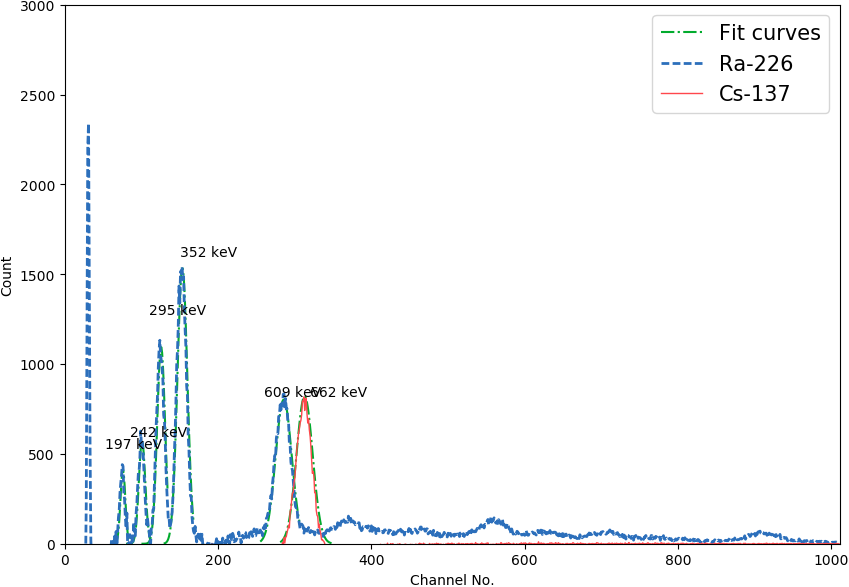
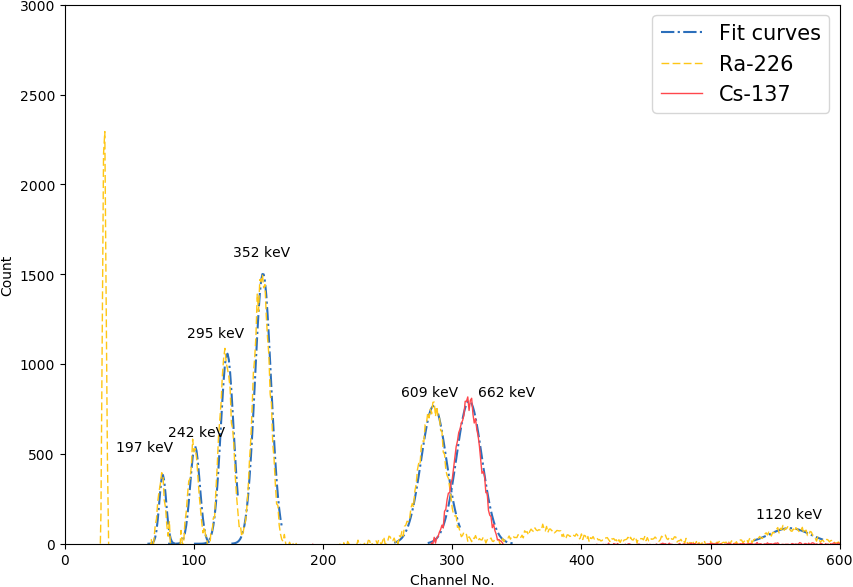
Fitted another photopeak and calculated absorption coefficient of lead

diff --git a/calibration.py b/calibration.py
@@ -15,7 +15,7 @@ Radium = data_arrays.sp2-data_arrays.sp0
 Unknown = data_arrays.sp4-data_arrays.sp0
 
 ###Create list of known photopeak energies
-energies = [661.69, 609.312, 351.932, 295.224, 241.997, 187.1]
+energies = [1120, 661.69, 609.312, 351.932, 295.224, 241.997, 187.1]
 
 ###Create data slices for curve fitting
 cesium_s1 = slice(0, 280, 1)  #Slice skips the first item, so this slice will take data lines 1-280
@@ -34,101 +34,139 @@ radium_s4 = slice(79, 112, 1)
 ra_x4 = np.linspace(80, 112, 33)
 radium_s5 = slice(63, 85, 1)
 ra_x5 = np.linspace(64, 85, 22)
+unknown_1 = slice(510, 600, 1)
+un_x1 = np.linspace(511, 600, 79)
+unknown_1 = slice(237, 290, 1)
+un_x1 = np.linspace(238, 290, 53)
+unknown_2 = slice(495, 575, 1)
+un_x2 = np.linspace(496, 575, 80)
+radium_s6 = slice(532, 587, 1)
+ra_x6 = np.linspace(533, 587, 55)
+#radium_x7 = slice(532, 590, 1)
+#ra_x7 = np.linspace(533, 590, 58)
 
-###Define a gaussian curve plus exponential term
+###Define a gaussian curve
 def gaussian(x, sigma, X, A):
     return A*np.exp( (-(x-X)**2)/(2*sigma**2))
 
 ###Define an exponential to fit the background
-def exponential(x, A, b):
-    return A*np.exp(-x*b)
+def exponential(x, A, b, c):
+    return A*np.exp(-x*b) + c
 
 #Subtract local background from known spectra
-Radium_clean = Radium - exponential(x, 3500, .0145)
-Cesium_clean = Cesium - exponential(x, 3500, .0145)
+Radium_clean = Radium - exponential(x, 3500, .0145, 45)
+Cesium_clean = Cesium - exponential(x, 3500, .0145, 0)
+Unknown_clean = Unknown -exponential(x, 3500, 0.0145, 0)
 
-
-ce_params1, ce_param_covar1 = curve_fit(gaussian, x2, Cesium[cesium_s2], p0 = [100, 340.,1.])
+ce_params1c, ce_param_covar1c = curve_fit(gaussian, x2, Cesium_clean[cesium_s2], p0 = [100, 340.,1.])
 ra_params1c, ra_param_covar1c = curve_fit(gaussian, ra_x1, Radium_clean[radium_s1], p0 = [100, 340.,1.])
 ra_params2c, ra_param_covar2c = curve_fit(gaussian, ra_x2, Radium_clean[radium_s2], p0 = [130., 220.,1.])
 ra_params3c, ra_param_covar3c = curve_fit(gaussian, ra_x3, Radium_clean[radium_s3], p0 = [110., 140.,1.])
 ra_params4c, ra_param_covar4c = curve_fit(gaussian, ra_x4, Radium_clean[radium_s4], p0 = [90., 115.,1.])
 ra_params5c, ra_param_covar5c = curve_fit(gaussian, ra_x5, Radium_clean[radium_s5], p0 = [65., 95.,1.])
+ra_params6c, ra_param_covar6c = curve_fit(gaussian, ra_x6, Radium_clean[radium_s6], p0 = [65., 500.,1.])
+unknown_params_1, unknown_covar_1 = curve_fit(gaussian, un_x1, Unknown[unknown_1], p0 = [65., 210,1.])
+unknown_params_2, unknown_covar_2 = curve_fit(gaussian, un_x2, Unknown[unknown_2], p0 = [65., 550,1.])
+
+
+#print ra_params6c
+###Errors for curve fits
+perr = np.sqrt(np.diag(abs(ce_param_covar1c)))   #Gives 1 standard deviation error of fit parameters
+
+#print perr
+#print ce_params1c
 
 plt.figure(figsize=(10,7))
-plt.plot(x2, gaussian(x2, *ce_params1), color = '#02ab2e',  linestyle = '-.', label='Fit curves')
-plt.plot(ra_x1, gaussian(ra_x1, *ra_params1c), color = '#02ab2e', linestyle = '-.')
-plt.plot(ra_x2, gaussian(ra_x2, *ra_params2c), color = '#02ab2e', linestyle = '-.')
-plt.plot(ra_x3, gaussian(ra_x3, *ra_params3c), color = '#02ab2e', linestyle = '-.')
-plt.plot(ra_x4, gaussian(ra_x4, *ra_params4c), color = '#02ab2e', linestyle = '-.')
-plt.plot(ra_x5, gaussian(ra_x5, *ra_params5c), color = '#02ab2e', linestyle = '-.')\
+plt.plot(x2, gaussian(x2, *ce_params1c), color = '#2c6fbb',  linestyle = '-.', label='Fit curves')
+#plt.plot(ra_x1, gaussian(ra_x1, *ra_params1c), color = '#2c6fbb', linestyle = '-.')
+#plt.plot(ra_x2, gaussian(ra_x2, *ra_params2c), color = '#2c6fbb', linestyle = '-.')
+#plt.plot(ra_x3, gaussian(ra_x3, *ra_params3c), color = '#2c6fbb', linestyle = '-.')
+#plt.plot(ra_x4, gaussian(ra_x4, *ra_params4c), color = '#2c6fbb', linestyle = '-.')
+#plt.plot(ra_x5, gaussian(ra_x5, *ra_params5c), color = '#2c6fbb', linestyle = '-.')
+#plt.plot(ra_x6, gaussian(ra_x6, *ra_params6c), color = '#2c6fbb', linestyle = '-.')
 
-#plt.plot(x, exponential(x, 3500, 0.0145))
-
+#plt.plot(un_x1, gaussian(un_x1, *unknown_params_1), color = '#02ab2e', linestyle = '-.')
+#plt.plot(un_x2, gaussian(un_x2, *unknown_params_2), color = '#02ab2e', linestyle = '-.')
+#plt.plot(un_x1, Unknown[unknown_1])
+plt.plot(x, Unknown, linewidth=1)
+#plt.plot(x, exponential(x, 3500, 0.0145, 0))
+plt.annotate('1120 keV', xy=(535, 140), xytext=(535, 140))
 plt.annotate('662 keV', xy=(320, 820), xytext=(320, 820))
 plt.annotate('609 keV', xy=(260, 820), xytext=(260, 820))
-plt.annotate('352 keV', xy=(150, 1600), xytext=(150, 1600))
-plt.annotate('295 keV', xy=(110, 1280), xytext=(110, 1280))
-plt.annotate('242 keV', xy=(85, 600), xytext=(85, 600))
-plt.annotate('197 keV', xy=(52, 530), xytext=(52, 530))
-plt.plot(x, Radium_clean, linewidth=2, color = '#2c6fbb', linestyle = '--', label='Ra-226')
-plt.plot(x, Cesium_clean, linewidth=1, color = '#ff474c', label='Cs-137')
-plt.xlim([0,400])
+plt.annotate('352 keV', xy=(130, 1600), xytext=(130, 1600))
+plt.annotate('295 keV', xy=(95, 1150), xytext=(95, 1150))
+plt.annotate('242 keV', xy=(80, 600), xytext=(80, 600))
+plt.annotate('197 keV', xy=(40, 515), xytext=(40, 515))
+#plt.plot(x, Radium_clean, linewidth=1, color = '#fec615', linestyle = '--', label='Ra-226')
+#plt.plot(x, Cesium_clean, linewidth=1, color = '#ff474c', label='Cs-137')
+plt.xlim([0,600])
 plt.ylim([0, 3000])
 plt.xlabel("Channel No.")
 plt.ylabel("Count")
 plt.legend(loc=1, prop={'size': 15})
-plt.savefig("Gaussian_fit_to_photo_peaks.png", bbox_inches="tight", pad_inches=0)
+#plt.savefig("Gaussian_fit_to_photo_peaks.png", bbox_inches="tight", pad_inches=0)
 plt.show()
 
-#print ra_params1c
-#print ra_params2c
-#print ra_params3c
-#print ra_params4c
-#print ra_params5c
 
 ###Create lists of sigmas and channel numbers: the List Comprehension Way
-energy_calibration1 = [t for t in zip(ce_params1, ra_params1c, ra_params2c, ra_params3c, ra_params4c, ra_params5c)[:2]]
+energy_calibration1 = [t for t in zip(ra_params6c, ce_params1c, ra_params1c, ra_params2c, ra_params3c, ra_params4c, ra_params5c)[:2]]
 
-#print energy_calibration1
+#print energy_calibration1[1]
+
+###Create lists of delta_sigmas from gaussian fits
+sigma_variances = [t for t in zip(ra_param_covar6c, ce_param_covar1c, ra_param_covar1c, ra_param_covar2c, ra_param_covar3c, ra_param_covar4c, ra_param_covar5c)[:1]]
+
+#print sigma_variances[0][1][0]
+#print ra_param_covar1c[0][0]
 
 ###Perform curve fitting of energy versus channel no.
 m, b, r_value, p_value, std_err = linregress(energy_calibration1[1], energies)
 
+#print m
+#print b
 #Plot linear fit
-x = np.arange(50, 350, 1)
-plt.figure(figsize=(10,7))
+x = np.arange(50, 600, 1)
+#plt.figure(figsize=(10,7))
 fig, ax = plt.subplots()
 ax.plot((x), m*(x) + b)
-ax.scatter(energy_calibration1[1], energies, )
+ax.scatter(energy_calibration1[1], energies)
+#plt.annotate(' keV', xy=(580, 1000), xytext=(580, 1000))
 textstr = '\n'.join((
     r'$m=%.2f  (\sigma_{m}=0.02)$' % (m, ),
-    r'$b=%.0f   (\sigma_{b}=3.8)$' % (b, )))
+    r'$b=%.0f   (\sigma_{b}=5.9)$' % (b, )))
 props = dict(boxstyle='round', facecolor='gray', alpha=0.5)
 ax.text(0.05, 0.95, textstr, transform=ax.transAxes, fontsize=12, verticalalignment='top', bbox=props)
 #plt.title("Channel No. versus Energy")
-B = [312.86, 285.71, 153.46, 125.73, 100.83, 75.85]
+B = [561.24, 313.09, 285.65, 153.45, 125.73, 100.83, 75.85]
 for xy in zip(B, energies):
-    ax.annotate(' (%s, %s keV)' % xy, xy=xy, textcoords='data')
-plt.xlim([0,500])
-plt.ylim([0,800])
+    ax.annotate(' %s, %s keV' % xy, xy=xy, textcoords='data')
+plt.xlim([0,700])
+plt.ylim([0,1300])
 plt.xlabel("Channel No.")
 plt.ylabel("Energy (keV)")
 plt.savefig("Linear_fit.png", bbox_inches="tight", pad_inches=0)
 #plt.show()
 
+Energy1 = unknown_params_1[1]*m+b
+Energy2 = unknown_params_2[1]*m+b
+
+#print Energy1, Energy2
+#print unknown_params_1[0], unknown_params_2[0]
+print unknown_params_1[1], unknown_params_2[1]
 
 ###Create new plot with energy on x axis, using linear fit data
-x = np.linspace(44, 2045.78, 1011)  #Define linear space that incorporates linear fit parameters
+x = np.linspace(42, 2053.89, 1011)  #Define linear space that incorporates linear fit parameters
 plt.figure(figsize=(10,7))
-plt.plot(x, Cesium, linewidth=1, color = '#ff474c', label='Cs-137')
-plt.plot(x, Radium, linewidth=1, color = '#2c6fbb', linestyle = '--', label='Ra-226')
-plt.plot(x, Unknown, linewidth=2, color = '#10a674', linestyle = '-.', label='Sample No. 3')
+plt.plot(x, Unknown_clean, linewidth=1, color = '#ff474c', label='Sample No. 3')
+plt.plot(x, Radium_clean, linewidth=1, color = '#2c6fbb', linestyle = '-.', label='Ra-226')
+plt.plot(x, Cesium_clean, linewidth=1, color = '#fec615', linestyle = '--', label='Cs-137')
+plt.annotate("560keV",  xy=(470, 970))
+plt.annotate("1068keV",  xy=(1000, 350))
 plt.xlim([0,2046])
-plt.ylim([0,2500])
+plt.ylim([0,1750])
 #plt.title('Gamma Spectra (Calibrated)')
 plt.xlabel("Energy (keV)")
 plt.ylabel("Count")
 plt.legend(loc=1, prop={'size': 15})
 plt.savefig("gamma_spectra_calibrated.png", bbox_inches="tight", pad_inches=0)
-#plt.show()
+plt.show()

diff --git a/absorption_of_radium.py b/absorption_of_radium.py
@@ -13,7 +13,7 @@ x = np.linspace(47, 1887.02, 1011)  #Define Energy space that incorporates linea
 def exponential(x, A, b):
     return A*np.exp(-x*b)
 
-###Subtract global and local background Ra-226 attenuated and unattenuated spectra
+###Subtract global and local background from Ra-226 attenuated and unattenuated spectra
 Radium_1mm_lead = data_arrays_take_2.sp3-data_arrays_take_2.sp0 - exponential(x0, 3500, .0145) -50
 Radium = data_arrays_take_2.sp2-data_arrays_take_2.sp0 - exponential(x0, 3500, .0145) -50
 Radium_7mm_lead = data_arrays_take_2.sp3_1-data_arrays_take_2.sp0 - exponential(x0, 3500, .0145) -50
@@ -36,9 +36,9 @@ ra_params1, ra_param_covar1 = curve_fit(gaussian, x1, Radium[peak], p0 = [90, 31
 ra_params2, ra_param_covar2 = curve_fit(gaussian, x1, Radium_1mm_lead[peak], p0 = [100, 310.,1.])
 ra_params3, ra_param_covar3 = curve_fit(gaussian, x1, Radium_7mm_lead[peak], p0 = [100, 310.,1.])
 
-print ra_params1
-print ra_params2
-print ra_params3
+#print ra_params1
+#print ra_params2
+#print ra_params3
 
 ###Solve for counts under the photopeak fits
 sum1=0
@@ -49,12 +49,12 @@ for i in range(peak.start, peak.stop + 1):
     sum2 += gaussian(x0[i], *ra_params2)   #1mm
     sum3 += gaussian(x0[i], *ra_params3)   #7mm
 
-print sum1, sum2, sum3
+#print sum1, sum2, sum3
 
 ###Errors for curve fits
-perr = np.sqrt(np.diag(abs(ra_params1)))   #Gives 1 standard deviation error of fit parameters
+perr = np.sqrt(np.diag(abs(ra_params3)))   #Gives 1 standard deviation error of fit parameters
 
-print perr
+#print perr
 
 ###Calculate Chi^2 of fits
 numerator = 0
@@ -64,16 +64,7 @@ for i in range(peak.start, peak.stop + 1):
     numerator = ( Radium[i] - gaussian(x0[i], *ra_params2) )**2
     denominator = gaussian(x0[i], *ra_params2)
     sum+= (numerator/denominator)
-print "Chi^2 = {sum}".format(sum=sum)
-
-##################
-#Define test data to check functions
-##################
-
-
-def test_gaussian(x, sigma, X):
-    return 1/(sigma*np.sqrt(2*np.pi))*np.exp( (-(x-X)**2)/(2*sigma**2))
-
+#print "Chi^2 = {sum}".format(sum=sum)
 
 
 
@@ -83,15 +74,15 @@ def count_uncert(sigma, A, dsigma, dA):
     delta_c = np.sqrt(  np.pi*2*(sigma**2)*(dA)**2     +  2*np.pi*(A*dsigma)**2    )
     return delta_c
 
-count_uncertainty = count_uncert(ra_params1[0], ra_params1[2], perr[0,0], perr[2,2])
-print count_uncertainty
+count_uncertainty = count_uncert(ra_params3[0], ra_params3[1], perr[0,0], perr[1,1])
+#print count_uncertainty
 
 #Calculate the uncertainty in lead absorption coefficient
 
 def del_mu(I, I0, x, dI, dI0, dx):
     np.sqrt( (dI0/(x*I0))**2  + (dI/(x*I))**2   + (( np.log(I0/I) * dx)/(x**2))**2    )
 
-delta_mu_1_25mm = del_mu(sum2, sum1, 1.25, 3888, 4586, 0.5)
+delta_mu_1_25mm = del_mu(sum2, sum1, 1.25, 2570, 2578, 0.5)
 print delta_mu_1_25mm
 
 
@@ -101,11 +92,11 @@ plt.plot(x, Radium, label="Unattenuated", color = '#ff474c')
 plt.plot(x, gaussian(x0, *ra_params1), color = '#ff474c', linestyle = '-.')
 plt.plot(x, Radium_1mm_lead, color = '#2c6fbb', label="1.25 mm attenuator" )
 plt.plot(x, gaussian(x0,  *ra_params2), color = '#2c6fbb', linestyle = '-.')
-plt.plot(x, Radium_7mm_lead, color = '#fec615', label="6.7 mm attenuator")
+plt.plot(x, Radium_7mm_lead, color = '#fec615', label="7 mm attenuator")
 plt.plot(x, gaussian(x0,  *ra_params3), color = '#fec615', linestyle = '-.')
-plt.annotate('14,316 ', xy=(609, 490), xytext=(609, 490))
-plt.annotate('11,945', xy=(609, 390), xytext=(609, 390))
-plt.annotate('5,614', xy=(609, 190), xytext=(609, 190))
+plt.annotate('14,697 ', xy=(609, 490), xytext=(609, 490))
+plt.annotate('12,332', xy=(609, 390), xytext=(609, 390))
+plt.annotate('5,966', xy=(609, 190), xytext=(609, 190))
 #plt.xlim([0, 1000])
 plt.xlim([550,675])
 plt.ylim([0,800])

diff --git a/error_calculations.py b/error_calculations.py
@@ -1,22 +1,25 @@
 import calibration
-#import calibration_take_2
+import calibration_take_2
 import matplotlib.pyplot as plt
 import numpy as np
 import scipy as sp
 
+
+
+
 #Calculate errors for Channel No. vs. Energy linear fit
-def sigma_y(A, B, x, y):
+def Sigma_y(A, B, x, y):
     sum = 0.0
     for i in range( len(y) ):
             sum += (y[i] - A - B*x[i])**2
     return np.sqrt( (1/ (len(y)-2.) )  *  sum )
 
-sigma_y = sigma_y(calibration.b, calibration.m, calibration.energy_calibration1[1], calibration.energies)
+sigma_y = Sigma_y(calibration.b, calibration.m, calibration.energy_calibration1[1], calibration.energies)
 
 #Calculate chi^2 uncertainty
 
 #Calculate uncertainty in parameters m and b in y = mx + b
-def delta(x):
+def Delta(x):
     sum1 = 0.0
     sum2 = 0.0
     for i in range( len(x) ):
@@ -24,41 +27,46 @@ def delta(x):
         sum2 += (x[i])
     return len(x)*sum1-(sum2)**2
 
-def sigma_b(sig_y, x, delta):
+def Sigma_b(sig_y, x, delta):
     sum = 0.0
     for i in range (  len(x)):
         sum += x[i]**2
     return sig_y* np.sqrt( sum / delta )
 
-def sigma_m(sig_y, x, delta):
+def Sigma_m(sig_y, x, delta):
     return sig_y* np.sqrt( len(x) / delta )
 
-delta = delta(calibration.energy_calibration1[1])
-sigma_b = sigma_b(sigma_y, calibration.energy_calibration1[1], delta)
-sigma_m = sigma_m(sigma_y, calibration.energy_calibration1[1], delta)
+delta = Delta(calibration.energy_calibration1[1])
+sigma_b = Sigma_b(sigma_y, calibration.energy_calibration1[1], delta)
+sigma_m = Sigma_m(sigma_y, calibration.energy_calibration1[1], delta)
 
 print sigma_b
 print sigma_m
 #print calibration.m
 
 
-
-
-#Calculate relative resolution of the detector for each photopeak and compute their average/ with uncertainty
-
-#resolutions = np.array( [[len(calibration.energy_calibration1[1])], [len(calibration.energy_calibration1[1])]], np.int32)
-
+###Calculate relative resolution of the detector for each photopeak and compute their average
 def res(sigma, E):
     res = 0.0
     sum = 0.0
     for i in range ( len(calibration.energy_calibration1[0])):
         res = (2.*abs(sigma[i])*100.*calibration.m)/E[i]
-        print res
+#        print res
 #        resolutions.fill(res())
         sum += res
     print (sum/ [len(calibration.energy_calibration1[0])])
 
 
+#print res(calibration.energy_calibration1[0], calibration.energies)
 
-#resolution = res(calibration.energy_calibration1[0], calibration.energies)
-#print resolution
+###Calculate error on detector resolution
+def res_error(sigma_vars, sig_m, E):
+    sum = 0.0
+    for i in range( len(calibration.energies) ):
+        sum += np.sqrt( ((200*calibration.m* np.sqrt(sigma_vars[0][i][0]) )/E[i])**2 + ( (200*calibration.energy_calibration1[0][i]* sigma_m)/E[i])**2 )
+#        print sum
+    return (sum/ len(calibration.energies) )
+
+resolution_error =  res_error(calibration.sigma_variances, sigma_m, calibration.energies)
+
+print resolution_error
